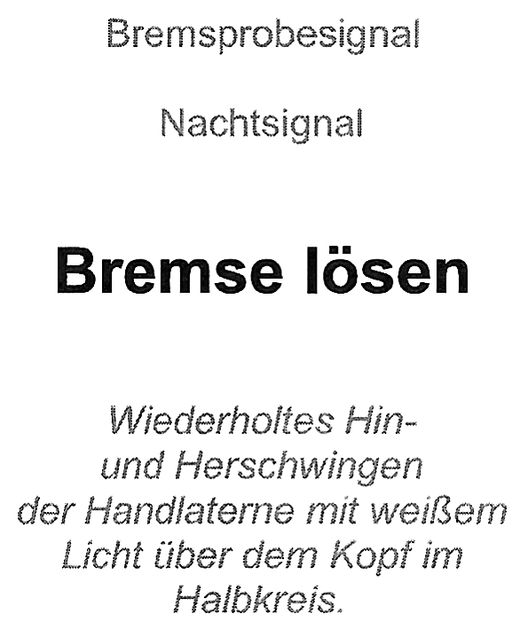
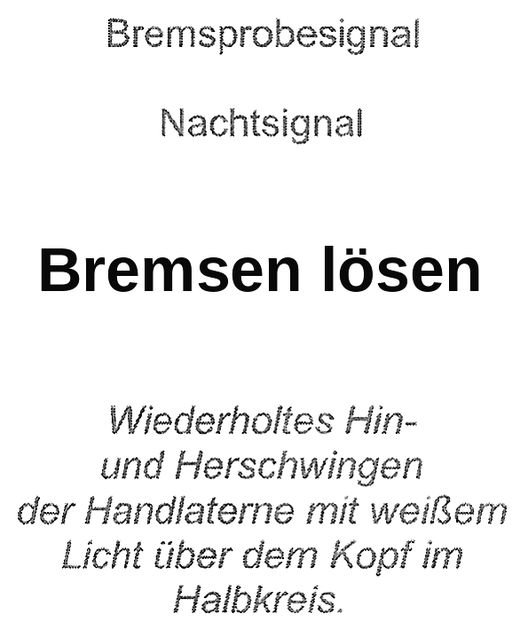
1

Changed region(s): [[0.0615, 0.3921, 0.9231, 0.4825]]

diff --git a/karten.js b/karten.js
@@ -1,5 +1,5 @@
 // Automatisch erzeugt aus der Signal-Kartenvorlage.
 // id -> Bilder img/s###.jpg (Symbol) und img/n###.jpg (Original-Rueckseite)
 // g = Signalgruppe, t = Bezeichnung, k = Signalart laut Rueckseite, a = Form-/Licht-/Tag-/Nachtsignal
-const KARTEN = [{"id": 1, "g": "Haupt- und Vorsignale", "t": "Vorsicht", "k": "Vorsignal", "a": "Lichtsignal"}, {"id": 2, "g": "Haupt- und Vorsignale", "t": "Vorsicht", "k": "Vorsignal", "a": "Formsignal"}, {"id": 3, "g": "Haupt- und Vorsignale", "t": "Hauptsignal Frei", "k": "Vorsignal", "a": "Formsignal"}, {"id": 4, "g": "Haupt- und Vorsignale", "t": "Frei mit 40 km/h", "k": "Hauptsignal", "a": "Formsignal"}, {"id": 5, "g": "Haupt- und Vorsignale", "t": "Frei", "k": "Hauptsignal", "a": "Formsignal"}, {"id": 6, "g": "Haupt- und Vorsignale", "t": "HALT", "k": "Hauptsignal", "a": "Formsignal"}, {"id": 7, "g": "Haupt- und Vorsignale", "t": "Frei mit 40 km/h", "k": "Hauptsignal", "a": "Lichtsignal"}, {"id": 8, "g": "Haupt- und Vorsignale", "t": "Frei mit 60 km/h", "k": "Hauptsignal", "a": "Lichtsignal"}, {"id": 9, "g": "Haupt- und Vorsignale", "t": "Frei", "k": "Hauptsignal", "a": "Lichtsignal"}, {"id": 10, "g": "Haupt- und Vorsignale", "t": "HALT", "k": "Hauptsignal", "a": "Lichtsignal"}, {"id": 11, "g": "Schutzsignale", "t": "Verschubverbot aufgehoben", "k": "Verschubsignal (Schutzsignal)", "a": "Lichtsignal"}, {"id": 12, "g": "Schutzsignale", "t": "Fahrverbot aufgehoben", "k": "Schutzsignal (NEU)", "a": "Lichtsignal"}, {"id": 13, "g": "Schutzsignale", "t": "Fahrverbot", "k": "Schutzsignal (NEU)", "a": "Lichtsignal"}, {"id": 14, "g": "Schutzsignale", "t": "Fahrverbot aufgehoben", "k": "Schutzsignal (ALT)", "a": "Lichtsignal"}, {"id": 15, "g": "Schutzsignale", "t": "Fahrverbot", "k": "Schutzsignal (ALT)", "a": "Lichtsignal"}, {"id": 16, "g": "Zusatzsignale", "t": "Ersatzsignal", "k": "Zusatzsignale für HS, VS & SCH", "a": "Lichtsignal"}, {"id": 17, "g": "Zusatzsignale", "t": "Vorsichtssignal", "k": "Zusatzsignale für HS, VS & SCH", "a": "Lichtsignal"}, {"id": 18, "g": "Haupt- und Vorsignale", "t": "Hauptsignal Frei mit 40 km/h", "k": "Vorsignal", "a": "Lichtsignal"}, {"id": 19, "g": "Haupt- und Vorsignale", "t": "Hauptsignal Frei mit 60 km/h", "k": "Vorsignal", "a": "Lichtsignal"}, {"id": 20, "g": "Haupt- und Vorsignale", "t": "Hauptsignal Frei", "k": "Vorsignal", "a": "Lichtsignal"}, {"id": 21, "g": "Zusatzsignale", "t": "Hauptsignal zeigt Halt", "k": "Zusatzsignale für HS, VS & SCH", "a": "Lichtsignal"}, {"id": 22, "g": "Zusatzsignale", "t": "Geschwindigkeitsanzeiger", "k": "Zusatzsignale für HS, VS & SCH", "a": "Formsignal"}, {"id": 23, "g": "Zusatzsignale", "t": "Geschwindigkeitsvoranzeiger", "k": "Zusatzsignale für HS, VS & SCH", "a": "Formsignal"}, {"id": 24, "g": "Zusatzsignale", "t": "Geschwindigkeitsanzeiger", "k": "Zusatzsignale für HS, VS & SCH", "a": "Lichtsignal"}, {"id": 25, "g": "Zusatzsignale", "t": "Geschwindigkeitsvoranzeiger", "k": "Zusatzsignale für HS, VS & SCH", "a": "Lichtsignal"}, {"id": 26, "g": "Zusatzsignale", "t": "Hauptsignal zeigt Frei mit Geschwindigkeitsbeschränkung", "k": "Zusatzsignale für HS, VS & SCH", "a": "Lichtsignal"}, {"id": 27, "g": "Zusatzsignale", "t": "Hauptsignal zeigt Frei", "k": "Zusatzsignale für HS, VS & SCH", "a": "Lichtsignal"}, {"id": 28, "g": "Zusatzsignale", "t": "Hauptsignal zeigt Halt", "k": "Zusatzsignale für HS, VS & SCH", "a": "Lichtsignal"}, {"id": 29, "g": "Zusatzsignale", "t": "Hauptsignal zeigt Frei mit Geschwindigkeitsbeschränkung", "k": "Zusatzsignale für HS, VS & SCH", "a": "Lichtsignal"}, {"id": 30, "g": "Zusatzsignale", "t": "Hauptsignal zeigt Frei", "k": "Zusatzsignale für HS, VS & SCH", "a": "Lichtsignal"}, {"id": 31, "g": "Zusatzsignale", "t": "Abstandstafel", "k": "Zusatzsignale für HS, VS & SCH", "a": "Formsignal"}, {"id": 32, "g": "Zusatzsignale", "t": "Kennzeichnung", "k": "Zusatzsignale für HS, VS & SCH", "a": "Formsignal"}, {"id": 33, "g": "Zusatzsignale", "t": "Signal außer Betrieb", "k": "Zusatzsignale für HS, VS & SCH", "a": "Formsignal"}, {"id": 34, "g": "Sperrsignale", "t": "Weiterfahrt erlaubt", "k": "Sperrsignal", "a": "Formsignal"}, {"id": 35, "g": "Sperrsignale", "t": "Weiterfahrt verboten", "k": "Sperrsignal", "a": "Formsignal"}, {"id": 36, "g": "Langsamfahrsignale", "t": "Endsignal", "k": "Langsamfahrsignal", "a": "Formsignal"}, {"id": 37, "g": "Langsamfahrsignale", "t": "Anfangssignal", "k": "Langsamfahrsignal", "a": "Formsignal"}, {"id": 38, "g": "Langsamfahrsignale", "t": "Ankündigungssignal", "k": "Langsamfahrsignal", "a": "Formsignal"}, {"id": 39, "g": "Zusatzsignale", "t": "Vorbeifahrt erlaubt", "k": "Zusatzsignale für HS, VS & SCH", "a": "Tagsignal"}, {"id": 40, "g": "Zusatzsignale", "t": "Vorbeifahrt erlaubt", "k": "Zusatzsignale für HS, VS & SCH", "a": "Nachtsignal"}, {"id": 41, "g": "Oberleitungssignale", "t": "Stromabnehmer Hoch", "k": "Oberleitungssignal", "a": "Formsignal"}, {"id": 42, "g": "Oberleitungssignale", "t": "Stromabnehmer Tief", "k": "Oberleitungssignal", "a": "Formsignal"}, {"id": 43, "g": "Oberleitungssignale", "t": "Ankündigung Stromabnehmer Tief", "k": "Oberleitungssignal", "a": "Formsignal"}, {"id": 44, "g": "Oberleitungssignale", "t": "Zusatzpfeil", "k": "Oberleitungssignal", "a": "Formsignal"}, {"id": 45, "g": "Oberleitungssignale", "t": "Halt für Fahrzeuge mit angehobenem Stromabnehmer", "k": "Oberleitungssignal", "a": "Formsignal"}, {"id": 46, "g": "Oberleitungssignale", "t": "Hauptschalter ein", "k": "Oberleitungssignal", "a": "Formsignal"}, {"id": 47, "g": "Oberleitungssignale", "t": "Hauptschalter aus", "k": "Oberleitungssignal", "a": "Formsignal"}, {"id": 48, "g": "Oberleitungssignale", "t": "Ankündigung Hauptschalter aus", "k": "Oberleitungssignal", "a": "Formsignal"}, {"id": 49, "g": "Weichensignale", "t": "Von Rechts", "k": "Weichensignal", "a": "Formsignal"}, {"id": 50, "g": "Weichensignale", "t": "Von Links", "k": "Weichensignal", "a": "Formsignal"}, {"id": 51, "g": "Weichensignale", "t": "Nach Rechts", "k": "Weichensignal", "a": "Formsignal"}, {"id": 52, "g": "Weichensignale", "t": "Nach Links", "k": "Weichensignal", "a": "Formsignal"}, {"id": 53, "g": "Weichensignale", "t": "Von Rechts nach Links", "k": "Weichensignal", "a": "Formsignal"}, {"id": 54, "g": "Weichensignale", "t": "Von Links nach Rechts", "k": "Weichensignal", "a": "Formsignal"}, {"id": 55, "g": "Weichensignale", "t": "Von Rechts nach Rechts", "k": "Weichensignal", "a": "Formsignal"}, {"id": 56, "g": "Weichensignale", "t": "Von Links nach Links", "k": "Weichensignal", "a": "Formsignal"}, {"id": 57, "g": "Übergangssignale", "t": "Aus dem rechten Zweig", "k": "Übergangssignal", "a": "Formsignal"}, {"id": 58, "g": "Übergangssignale", "t": "Aus dem linken Zweig", "k": "Übergangssignal", "a": "Formsignal"}, {"id": 59, "g": "Übergangssignale", "t": "Aus der Ablenkung", "k": "Übergangssignal", "a": "Formsignal"}, {"id": 60, "g": "Übergangssignale", "t": "In die Ablenkung", "k": "Übergangssignal", "a": "Formsignal"}, {"id": 61, "g": "Übergangssignale", "t": "Gerade", "k": "Übergangssignal", "a": "Formsignal"}, {"id": 62, "g": "Übergangssignale", "t": "Gerade von links nach rechts", "k": "Übergangssignal", "a": "Formsignal"}, {"id": 63, "g": "Übergangssignale", "t": "Gerade von rechts nach links", "k": "Übergangssignal", "a": "Formsignal"}, {"id": 64, "g": "Übergangssignale", "t": "Ablenkung von Rechts nach Rechts", "k": "Übergangssignal", "a": "Formsignal"}, {"id": 65, "g": "Übergangssignale", "t": "Ablenkung von Links nach Links", "k": "Übergangssignal", "a": "Formsignal"}, {"id": 66, "g": "Verschubsignale", "t": "Verschubverbot", "k": "Verschubsignal", "a": "Lichtsignal"}, {"id": 67, "g": "Verschubsignale", "t": "Verschubverbot aufgehoben", "k": "Verschubsignal", "a": "Lichtsignal"}, {"id": 68, "g": "Verschubsignale", "t": "Verschubverbot aufgehoben", "k": "Verschubsignal (Schutzsignal)", "a": "Lichtsignal"}, {"id": 69, "g": "Verschubsignale", "t": "Verschubverbot aufgehoben", "k": "Verschubsignal (Hauptsignal)", "a": "Lichtsignal"}, {"id": 70, "g": "Weichenüberwachungssignale", "t": "Weichenblockade", "k": "Weichenüberwachungssignal", "a": "Formsignal"}, {"id": 71, "g": "Weichenüberwachungssignale", "t": "Rückfallweichen befahren NICHT erlaubt", "k": "Weichenüberwachungssignal", "a": "Lichtsignal"}, {"id": 72, "g": "Weichenüberwachungssignale", "t": "Rückfallweichen befahren NICHT erlaubt", "k": "Weichenüberwachungssignal", "a": "Lichtsignal"}, {"id": 73, "g": "Weichenüberwachungssignale", "t": "Rückfallweichen befahren erlaubt", "k": "Weichenüberwachungssignal", "a": "Lichtsignal"}, {"id": 74, "g": "Weichenüberwachungssignale", "t": "Rückfallweichen befahren erlaubt", "k": "Weichenüberwachungssignal", "a": "Lichtsignal"}, {"id": 75, "g": "Weichenüberwachungssignale", "t": "Weiche gesichert", "k": "Weichenüberwachungssignal", "a": "Formsignal"}, {"id": 76, "g": "Hand-Verschubsignale", "t": "Abstoßen", "k": "Hand-Verschubsignal", "a": "Tagsignal"}, {"id": 77, "g": "Hand-Verschubsignale", "t": "Wegfahren", "k": "Hand-Verschubsignal", "a": "Nachtsignal"}, {"id": 78, "g": "Hand-Verschubsignale", "t": "Verschubhalt", "k": "Hand-Verschubsignal", "a": "Nachtsignal"}, {"id": 79, "g": "Hand-Verschubsignale", "t": "Langsamer", "k": "Hand-Verschubsignal", "a": "Nachtsignal"}, {"id": 80, "g": "Hand-Verschubsignale", "t": "Herkommen", "k": "Hand-Verschubsignal", "a": "Nachtsignal"}, {"id": 81, "g": "Hand-Verschubsignale", "t": "Aufdrücken", "k": "Hand-Verschubsignal", "a": "Nachtsignal"}, {"id": 82, "g": "Hand-Verschubsignale", "t": "Abstoßen", "k": "Hand-Verschubsignal", "a": "Nachtsignal"}, {"id": 83, "g": "Verschubsignale", "t": "Wartesignal", "k": "Verschubsignal", "a": "Formsignal"}, {"id": 84, "g": "Verschubsignale", "t": "Verschubsignalzusatz", "k": "Verschubsignal", "a": "Formsignal"}, {"id": 85, "g": "Verschubsignale", "t": "Verschubhalttafel", "k": "Verschubsignal", "a": "Formsignal"}, {"id": 86, "g": "Bremsprobesignale", "t": "Bremse lösen", "k": "Bremsprobesignal", "a": "Tagsignal"}, {"id": 87, "g": "Bremsprobesignale", "t": "Bremse anlegen", "k": "Bremsprobesignal", "a": "Tagsignal"}, {"id": 88, "g": "Bremsprobesignale", "t": "Bremsprobe beendet", "k": "Bremsprobesignal", "a": "Nachtsignal"}, {"id": 89, "g": "Bremsprobesignale", "t": "Bremse lösen", "k": "Bremsprobesignal", "a": "Nachtsignal"}, {"id": 90, "g": "Bremsprobesignale", "t": "Bremse anlegen", "k": "Bremsprobesignal", "a": "Nachtsignal"}, {"id": 91, "g": "Hand-Verschubsignale", "t": "Wegfahren", "k": "Hand-Verschubsignal", "a": "Tagsignal"}, {"id": 92, "g": "Hand-Verschubsignale", "t": "Verschubhalt", "k": "Hand-Verschubsignal", "a": "Tagsignal"}, {"id": 93, "g": "Hand-Verschubsignale", "t": "Aufdrücken", "k": "Hand-Verschubsignal", "a": "Tagsignal"}, {"id": 94, "g": "Hand-Verschubsignale", "t": "Langsamer", "k": "Hand-Verschubsignal", "a": "Tagsignal"}, {"id": 95, "g": "Hand-Verschubsignale", "t": "Herkommen", "k": "Hand-Verschubsignal", "a": "Tagsignal"}, {"id": 96, "g": "Abfahren von Zügen", "t": "Schneller fahren", "k": "Abfahren von Zügen", "a": "Formsignal"}, {"id": 97, "g": "Abfahren von Zügen", "t": "Fertig", "k": "Abfahren von Zügen", "a": "Tagsignal"}, {"id": 98, "g": "Abfahren von Zügen", "t": "Abfahrbereit", "k": "Abfahren von Zügen", "a": "Tagsignal"}, {"id": 99, "g": "Abfahren von Zügen", "t": "Fertig", "k": "Abfahren von Zügen", "a": "Nachtsignal"}, {"id": 100, "g": "Abfahren von Zügen", "t": "Abfahrbereit", "k": "Abfahren von Zügen", "a": "Nachtsignal"}, {"id": 101, "g": "Abfahren von Zügen", "t": "Abfahren erlaubt", "k": "Abfahren von Zügen", "a": "Lichtsignal"}, {"id": 102, "g": "Abfahren von Zügen", "t": "Zustimmung vermitteln", "k": "Abfahren von Zügen", "a": "Formsignal"}, {"id": 103, "g": "Abfahren von Zügen", "t": "Zustimmung entfällt", "k": "Abfahren von Zügen", "a": "Formsignal"}, {"id": 104, "g": "Abfahren von Zügen", "t": "Zustimmung", "k": "Abfahren von Zügen", "a": "Lichtsignal"}, {"id": 105, "g": "Bremsprobesignale", "t": "Bremsprobe beendet", "k": "Bremsprobesignal", "a": "Tagsignal"}, {"id": 106, "g": "Zug- und Fahrzeugsignale", "t": "Schlusssignal", "k": "Zugsignal", "a": "Formsignal"}, {"id": 107, "g": "Zug- und Fahrzeugsignale", "t": "Schlusssignal", "k": "Zugsignal", "a": "Formsignal"}, {"id": 108, "g": "Zug- und Fahrzeugsignale", "t": "Schlusssignal", "k": "Zugsignal", "a": "Lichtsignal"}, {"id": 109, "g": "Zug- und Fahrzeugsignale", "t": "Schlusssignal", "k": "Zugsignal", "a": "Lichtsignal"}, {"id": 110, "g": "Zug- und Fahrzeugsignale", "t": "Spitzensignal", "k": "Zugsignal", "a": "Lichtsignal"}, {"id": 111, "g": "Zug- und Fahrzeugsignale", "t": "Wagen besetzt", "k": "Signale an Fahrzeugen", "a": "Formsignal"}, {"id": 112, "g": "Zug- und Fahrzeugsignale", "t": "Fahrzeug darf nicht bewegt werden", "k": "Signale an Fahrzeugen", "a": "Formsignal"}, {"id": 113, "g": "Zug- und Fahrzeugsignale", "t": "An die Vorheizanlage angeschlossen", "k": "Signale an Fahrzeugen", "a": "Formsignal"}, {"id": 114, "g": "Abfahren von Zügen", "t": "Langsamer fahren", "k": "Abfahren von Zügen", "a": "Formsignal"}, {"id": 115, "g": "Sonstige Signale", "t": "Signalhinweis", "k": "Sonstiges Signal", "a": "Formsignal"}, {"id": 116, "g": "Sonstige Signale", "t": "Kreuztafel", "k": "Sonstiges Signal", "a": "Formsignal"}, {"id": 117, "g": "Sonstige Signale", "t": "Kreuztafel", "k": "Sonstiges Signal", "a": "Formsignal"}, {"id": 118, "g": "Sonstige Signale", "t": "Trapeztafel", "k": "Sonstiges Signal", "a": "Formsignal"}, {"id": 119, "g": "Sonstige Signale", "t": "Kommen", "k": "Sonstiges Signal", "a": "Lichtsignal"}, {"id": 120, "g": "Sonstige Signale", "t": "Haltestellentafel", "k": "Sonstiges Signal", "a": "Formsignal"}, {"id": 121, "g": "Sonstige Signale", "t": "Markierte Grenzmarke", "k": "Sonstiges Signal", "a": "Formsignal"}, {"id": 122, "g": "Sonstige Signale", "t": "Grenzmarke", "k": "Sonstiges Signal", "a": "Formsignal"}, {"id": 123, "g": "Sonstige Signale", "t": "Haltepunkt", "k": "Sonstiges Signal", "a": "Formsignal"}, {"id": 124, "g": "Sonstige Signale", "t": "Gefahrsignal", "k": "Gefahrsignal", "a": "Tagsignal"}, {"id": 125, "g": "Sonstige Signale", "t": "Geschwindigkeitstafel", "k": "Sonstiges Signal", "a": "Formsignal"}, {"id": 126, "g": "Sonstige Signale", "t": "Dienstruhe", "k": "Sonstiges Signal", "a": "Formsignal"}, {"id": 127, "g": "Sonstige Signale", "t": "Fahrwegende", "k": "Sonstiges Signal", "a": "Formsignal"}, {"id": 128, "g": "Sonstige Signale", "t": "Haltscheibe", "k": "Sonstiges Signal", "a": "Formsignal"}, {"id": 129, "g": "Sonstige Signale", "t": "NBÜ-Bereich", "k": "Sonstiges Signal", "a": "Formsignal"}, {"id": 130, "g": "Sonstige Signale", "t": "Mittelräumer heben", "k": "Sonstiges Signal", "a": "Formsignal"}, {"id": 131, "g": "Sonstige Signale", "t": "Räumarbeit aufnehmen", "k": "Sonstiges Signal", "a": "Formsignal"}, {"id": 132, "g": "Sonstige Signale", "t": "Räumarbeit einstellen", "k": "Sonstiges Signal", "a": "Formsignal"}, {"id": 133, "g": "Sonstige Signale", "t": "Dienstruhe", "k": "Sonstiges Signal", "a": "Formsignal"}, {"id": 134, "g": "Sonstige Signale", "t": "Richtungspfeil", "k": "Sonstiges Signal", "a": "Formsignal"}, {"id": 135, "g": "Pfeiftafeln und Eisenbahnkreuzungen", "t": "Schaltstelle", "k": "Pfeiftafel, Schaltstellen", "a": "Formsignal"}, {"id": 136, "g": "Pfeiftafeln und Eisenbahnkreuzungen", "t": "Pfeiftafel", "k": "Pfeiftafel, Schaltstellen", "a": "Formsignal"}, {"id": 137, "g": "Pfeiftafeln und Eisenbahnkreuzungen", "t": "Pfeifende", "k": "Pfeiftafel, Schaltstellen", "a": "Formsignal"}, {"id": 138, "g": "Pfeiftafeln und Eisenbahnkreuzungen", "t": "Gruppenpfeiftafel", "k": "Pfeiftafel, Schaltstellen", "a": "Formsignal"}, {"id": 139, "g": "Sonstige Signale", "t": "Ankündigungstafel", "k": "Sonstiges Signal", "a": "Formsignal"}, {"id": 140, "g": "Sonstige Signale", "t": "Erlaubnissignal", "k": "Erlaubnissignal", "a": "Lichtsignal"}, {"id": 141, "g": "Pfeiftafeln und Eisenbahnkreuzungen", "t": "EK-Sicht Gruppenpfeiftafel", "k": "EK-Sicht Pfeiftafeln", "a": "Formsignal"}, {"id": 142, "g": "Pfeiftafeln und Eisenbahnkreuzungen", "t": "EK-Sicht Pfeiftafel", "k": "EK-Sicht Pfeiftafeln", "a": "Formsignal"}, {"id": 143, "g": "Pfeiftafeln und Eisenbahnkreuzungen", "t": "EK-Sicht", "k": "EK-Sicht", "a": "Formsignal"}, {"id": 144, "g": "Pfeiftafeln und Eisenbahnkreuzungen", "t": "Ankündigung EK-Sicht", "k": "EK-Sicht", "a": "Formsignal"}, {"id": 145, "g": "Pfeiftafeln und Eisenbahnkreuzungen", "t": "EK Gruppe Ende", "k": "EK-Überwachungssignal", "a": "Formsignal"}, {"id": 146, "g": "Pfeiftafeln und Eisenbahnkreuzungen", "t": "EK Gruppe Anfang", "k": "EK-Überwachungssignal", "a": "Formsignal"}, {"id": 147, "g": "Zusatzsignale", "t": "Gelbes Trapez", "k": "Zusatzsignale für HS, VS & SCH", "a": "Formsignal"}, {"id": 148, "g": "ETCS-Signale", "t": "ETCS Location Marker", "k": "ETCS Signale", "a": "Formsignal"}, {"id": 149, "g": "ETCS-Signale", "t": "ETCS Stop Marker", "k": "ETCS Signale", "a": "Formsignal"}, {"id": 150, "g": "Haupt- und Vorsignale", "t": "Vorsicht", "k": "Vorsignal", "a": "Lichtsignal"}, {"id": 151, "g": "Pfeiftafeln und Eisenbahnkreuzungen", "t": "Rautentafel", "k": "EK-Überwachungssignal", "a": "Formsignal"}, {"id": 152, "g": "Pfeiftafeln und Eisenbahnkreuzungen", "t": "EK befahren NICHT erlaubt", "k": "EK-Überwachungssignal", "a": "Lichtsignal"}, {"id": 153, "g": "Pfeiftafeln und Eisenbahnkreuzungen", "t": "EK befahren erlaubt", "k": "EK-Überwachungssignal", "a": "Lichtsignal"}];
+const KARTEN = [{"id": 1, "g": "Haupt- und Vorsignale", "t": "Vorsicht", "k": "Vorsignal", "a": "Lichtsignal"}, {"id": 2, "g": "Haupt- und Vorsignale", "t": "Vorsicht", "k": "Vorsignal", "a": "Formsignal"}, {"id": 3, "g": "Haupt- und Vorsignale", "t": "Hauptsignal Frei", "k": "Vorsignal", "a": "Formsignal"}, {"id": 4, "g": "Haupt- und Vorsignale", "t": "Frei mit 40 km/h", "k": "Hauptsignal", "a": "Formsignal"}, {"id": 5, "g": "Haupt- und Vorsignale", "t": "Frei", "k": "Hauptsignal", "a": "Formsignal"}, {"id": 6, "g": "Haupt- und Vorsignale", "t": "HALT", "k": "Hauptsignal", "a": "Formsignal"}, {"id": 7, "g": "Haupt- und Vorsignale", "t": "Frei mit 40 km/h", "k": "Hauptsignal", "a": "Lichtsignal"}, {"id": 8, "g": "Haupt- und Vorsignale", "t": "Frei mit 60 km/h", "k": "Hauptsignal", "a": "Lichtsignal"}, {"id": 9, "g": "Haupt- und Vorsignale", "t": "Frei", "k": "Hauptsignal", "a": "Lichtsignal"}, {"id": 10, "g": "Haupt- und Vorsignale", "t": "HALT", "k": "Hauptsignal", "a": "Lichtsignal"}, {"id": 11, "g": "Schutzsignale", "t": "Verschubverbot aufgehoben", "k": "Verschubsignal (Schutzsignal)", "a": "Lichtsignal"}, {"id": 12, "g": "Schutzsignale", "t": "Fahrverbot aufgehoben", "k": "Schutzsignal (NEU)", "a": "Lichtsignal"}, {"id": 13, "g": "Schutzsignale", "t": "Fahrverbot", "k": "Schutzsignal (NEU)", "a": "Lichtsignal"}, {"id": 14, "g": "Schutzsignale", "t": "Fahrverbot aufgehoben", "k": "Schutzsignal (ALT)", "a": "Lichtsignal"}, {"id": 15, "g": "Schutzsignale", "t": "Fahrverbot", "k": "Schutzsignal (ALT)", "a": "Lichtsignal"}, {"id": 16, "g": "Zusatzsignale", "t": "Ersatzsignal", "k": "Zusatzsignale für HS, VS & SCH", "a": "Lichtsignal"}, {"id": 17, "g": "Zusatzsignale", "t": "Vorsichtssignal", "k": "Zusatzsignale für HS, VS & SCH", "a": "Lichtsignal"}, {"id": 18, "g": "Haupt- und Vorsignale", "t": "Hauptsignal Frei mit 40 km/h", "k": "Vorsignal", "a": "Lichtsignal"}, {"id": 19, "g": "Haupt- und Vorsignale", "t": "Hauptsignal Frei mit 60 km/h", "k": "Vorsignal", "a": "Lichtsignal"}, {"id": 20, "g": "Haupt- und Vorsignale", "t": "Hauptsignal Frei", "k": "Vorsignal", "a": "Lichtsignal"}, {"id": 21, "g": "Zusatzsignale", "t": "Signalnachahmer – Hauptsignal zeigt Halt", "k": "Signalnachahmer", "a": "Lichtsignal"}, {"id": 22, "g": "Zusatzsignale", "t": "Geschwindigkeitsanzeiger", "k": "Zusatzsignale für HS, VS & SCH", "a": "Formsignal"}, {"id": 23, "g": "Zusatzsignale", "t": "Geschwindigkeitsvoranzeiger", "k": "Zusatzsignale für HS, VS & SCH", "a": "Formsignal"}, {"id": 24, "g": "Zusatzsignale", "t": "Geschwindigkeitsanzeiger", "k": "Zusatzsignale für HS, VS & SCH", "a": "Lichtsignal"}, {"id": 25, "g": "Zusatzsignale", "t": "Geschwindigkeitsvoranzeiger", "k": "Zusatzsignale für HS, VS & SCH", "a": "Lichtsignal"}, {"id": 26, "g": "Zusatzsignale", "t": "Signalnachahmer – Hauptsignal zeigt Frei mit Geschwindigkeitsbeschränkung", "k": "Signalnachahmer", "a": "Lichtsignal"}, {"id": 27, "g": "Zusatzsignale", "t": "Signalnachahmer – Hauptsignal zeigt Frei", "k": "Signalnachahmer", "a": "Lichtsignal"}, {"id": 28, "g": "Zusatzsignale", "t": "Signalnachahmer – Hauptsignal zeigt Halt", "k": "Signalnachahmer mit PZB 1000 Hz", "a": "Lichtsignal"}, {"id": 29, "g": "Zusatzsignale", "t": "Signalnachahmer – Hauptsignal zeigt Frei mit Geschwindigkeitsbeschränkung", "k": "Signalnachahmer mit PZB 1000 Hz", "a": "Lichtsignal"}, {"id": 30, "g": "Zusatzsignale", "t": "Signalnachahmer – Hauptsignal zeigt Frei", "k": "Signalnachahmer mit PZB 1000 Hz", "a": "Lichtsignal"}, {"id": 31, "g": "Zusatzsignale", "t": "Abstandstafel", "k": "Zusatzsignale für HS, VS & SCH", "a": "Formsignal"}, {"id": 32, "g": "Zusatzsignale", "t": "Kennzeichnung", "k": "Zusatzsignale für HS, VS & SCH", "a": "Formsignal"}, {"id": 33, "g": "Zusatzsignale", "t": "Signal außer Betrieb", "k": "Zusatzsignale für HS, VS & SCH", "a": "Formsignal"}, {"id": 34, "g": "Sperrsignale", "t": "Weiterfahrt erlaubt", "k": "Sperrsignal", "a": "Formsignal"}, {"id": 35, "g": "Sperrsignale", "t": "Weiterfahrt verboten", "k": "Sperrsignal", "a": "Formsignal"}, {"id": 36, "g": "Langsamfahrsignale", "t": "Endsignal", "k": "Langsamfahrsignal", "a": "Formsignal"}, {"id": 37, "g": "Langsamfahrsignale", "t": "Anfangssignal", "k": "Langsamfahrsignal", "a": "Formsignal"}, {"id": 38, "g": "Langsamfahrsignale", "t": "Ankündigungssignal", "k": "Langsamfahrsignal", "a": "Formsignal"}, {"id": 39, "g": "Zusatzsignale", "t": "Vorbeifahrt erlaubt", "k": "Zusatzsignale für HS, VS & SCH", "a": "Tagsignal"}, {"id": 40, "g": "Zusatzsignale", "t": "Vorbeifahrt erlaubt", "k": "Zusatzsignale für HS, VS & SCH", "a": "Nachtsignal"}, {"id": 41, "g": "Oberleitungssignale", "t": "Stromabnehmer Hoch", "k": "Oberleitungssignal", "a": "Formsignal"}, {"id": 42, "g": "Oberleitungssignale", "t": "Stromabnehmer Tief", "k": "Oberleitungssignal", "a": "Formsignal"}, {"id": 43, "g": "Oberleitungssignale", "t": "Ankündigung Stromabnehmer Tief", "k": "Oberleitungssignal", "a": "Formsignal"}, {"id": 44, "g": "Oberleitungssignale", "t": "Zusatzpfeil", "k": "Oberleitungssignal", "a": "Formsignal"}, {"id": 45, "g": "Oberleitungssignale", "t": "Halt für Fahrzeuge mit angehobenem Stromabnehmer", "k": "Oberleitungssignal", "a": "Formsignal"}, {"id": 46, "g": "Oberleitungssignale", "t": "Hauptschalter ein", "k": "Oberleitungssignal", "a": "Formsignal"}, {"id": 47, "g": "Oberleitungssignale", "t": "Hauptschalter aus", "k": "Oberleitungssignal", "a": "Formsignal"}, {"id": 48, "g": "Oberleitungssignale", "t": "Ankündigung Hauptschalter aus", "k": "Oberleitungssignal", "a": "Formsignal"}, {"id": 49, "g": "Weichensignale", "t": "Von Rechts", "k": "Weichensignal", "a": "Formsignal"}, {"id": 50, "g": "Weichensignale", "t": "Von Links", "k": "Weichensignal", "a": "Formsignal"}, {"id": 51, "g": "Weichensignale", "t": "Nach Rechts", "k": "Weichensignal", "a": "Formsignal"}, {"id": 52, "g": "Weichensignale", "t": "Nach Links", "k": "Weichensignal", "a": "Formsignal"}, {"id": 53, "g": "Weichensignale", "t": "Von Rechts nach Links", "k": "Weichensignal", "a": "Formsignal"}, {"id": 54, "g": "Weichensignale", "t": "Von Links nach Rechts", "k": "Weichensignal", "a": "Formsignal"}, {"id": 55, "g": "Weichensignale", "t": "Von Rechts nach Rechts", "k": "Weichensignal", "a": "Formsignal"}, {"id": 56, "g": "Weichensignale", "t": "Von Links nach Links", "k": "Weichensignal", "a": "Formsignal"}, {"id": 57, "g": "Übergangssignale", "t": "Aus dem rechten Zweig", "k": "Übergangssignal", "a": "Formsignal"}, {"id": 58, "g": "Übergangssignale", "t": "Aus dem linken Zweig", "k": "Übergangssignal", "a": "Formsignal"}, {"id": 59, "g": "Übergangssignale", "t": "Aus der Ablenkung", "k": "Übergangssignal", "a": "Formsignal"}, {"id": 60, "g": "Übergangssignale", "t": "In die Ablenkung", "k": "Übergangssignal", "a": "Formsignal"}, {"id": 61, "g": "Übergangssignale", "t": "Gerade", "k": "Übergangssignal", "a": "Formsignal"}, {"id": 62, "g": "Übergangssignale", "t": "Gerade von links nach rechts", "k": "Übergangssignal", "a": "Formsignal"}, {"id": 63, "g": "Übergangssignale", "t": "Gerade von rechts nach links", "k": "Übergangssignal", "a": "Formsignal"}, {"id": 64, "g": "Übergangssignale", "t": "Ablenkung von Rechts nach Rechts", "k": "Übergangssignal", "a": "Formsignal"}, {"id": 65, "g": "Übergangssignale", "t": "Ablenkung von Links nach Links", "k": "Übergangssignal", "a": "Formsignal"}, {"id": 66, "g": "Verschubsignale", "t": "Verschubverbot", "k": "Verschubsignal", "a": "Lichtsignal"}, {"id": 67, "g": "Verschubsignale", "t": "Verschubverbot aufgehoben", "k": "Verschubsignal", "a": "Lichtsignal"}, {"id": 68, "g": "Verschubsignale", "t": "Verschubverbot aufgehoben", "k": "Verschubsignal (Schutzsignal)", "a": "Lichtsignal"}, {"id": 69, "g": "Verschubsignale", "t": "Verschubverbot aufgehoben", "k": "Verschubsignal (Hauptsignal)", "a": "Lichtsignal"}, {"id": 70, "g": "Weichenüberwachungssignale", "t": "Weichenblockade", "k": "Weichenüberwachungssignal", "a": "Formsignal"}, {"id": 71, "g": "Weichenüberwachungssignale", "t": "Rückfallweichen befahren NICHT erlaubt", "k": "Weichenüberwachungssignal", "a": "Lichtsignal"}, {"id": 72, "g": "Weichenüberwachungssignale", "t": "Rückfallweichen befahren NICHT erlaubt", "k": "Weichenüberwachungssignal", "a": "Lichtsignal"}, {"id": 73, "g": "Weichenüberwachungssignale", "t": "Rückfallweichen befahren erlaubt", "k": "Weichenüberwachungssignal", "a": "Lichtsignal"}, {"id": 74, "g": "Weichenüberwachungssignale", "t": "Rückfallweichen befahren erlaubt", "k": "Weichenüberwachungssignal", "a": "Lichtsignal"}, {"id": 75, "g": "Weichenüberwachungssignale", "t": "Weiche gesichert", "k": "Weichenüberwachungssignal", "a": "Formsignal"}, {"id": 76, "g": "Hand-Verschubsignale", "t": "Abstoßen", "k": "Hand-Verschubsignal", "a": "Tagsignal"}, {"id": 77, "g": "Hand-Verschubsignale", "t": "Wegfahren", "k": "Hand-Verschubsignal", "a": "Nachtsignal"}, {"id": 78, "g": "Hand-Verschubsignale", "t": "Verschubhalt", "k": "Hand-Verschubsignal", "a": "Nachtsignal"}, {"id": 79, "g": "Hand-Verschubsignale", "t": "Langsamer", "k": "Hand-Verschubsignal", "a": "Nachtsignal"}, {"id": 80, "g": "Hand-Verschubsignale", "t": "Herkommen", "k": "Hand-Verschubsignal", "a": "Nachtsignal"}, {"id": 81, "g": "Hand-Verschubsignale", "t": "Aufdrücken", "k": "Hand-Verschubsignal", "a": "Nachtsignal"}, {"id": 82, "g": "Hand-Verschubsignale", "t": "Abstoßen", "k": "Hand-Verschubsignal", "a": "Nachtsignal"}, {"id": 83, "g": "Verschubsignale", "t": "Wartesignal", "k": "Verschubsignal", "a": "Formsignal"}, {"id": 84, "g": "Verschubsignale", "t": "Verschubsignalzusatz", "k": "Verschubsignal", "a": "Formsignal"}, {"id": 85, "g": "Verschubsignale", "t": "Verschubhalttafel", "k": "Verschubsignal", "a": "Formsignal"}, {"id": 86, "g": "Bremsprobesignale", "t": "Bremsen lösen", "k": "Bremsprobesignal", "a": "Tagsignal"}, {"id": 87, "g": "Bremsprobesignale", "t": "Bremsen anlegen", "k": "Bremsprobesignal", "a": "Tagsignal"}, {"id": 88, "g": "Bremsprobesignale", "t": "Bremsprobe beendet", "k": "Bremsprobesignal", "a": "Nachtsignal"}, {"id": 89, "g": "Bremsprobesignale", "t": "Bremsen lösen", "k": "Bremsprobesignal", "a": "Nachtsignal"}, {"id": 90, "g": "Bremsprobesignale", "t": "Bremsen anlegen", "k": "Bremsprobesignal", "a": "Nachtsignal"}, {"id": 91, "g": "Hand-Verschubsignale", "t": "Wegfahren", "k": "Hand-Verschubsignal", "a": "Tagsignal"}, {"id": 92, "g": "Hand-Verschubsignale", "t": "Verschubhalt", "k": "Hand-Verschubsignal", "a": "Tagsignal"}, {"id": 93, "g": "Hand-Verschubsignale", "t": "Aufdrücken", "k": "Hand-Verschubsignal", "a": "Tagsignal"}, {"id": 94, "g": "Hand-Verschubsignale", "t": "Langsamer", "k": "Hand-Verschubsignal", "a": "Tagsignal"}, {"id": 95, "g": "Hand-Verschubsignale", "t": "Herkommen", "k": "Hand-Verschubsignal", "a": "Tagsignal"}, {"id": 96, "g": "Abfahren von Zügen", "t": "Schneller fahren", "k": "Abfahren von Zügen", "a": "Formsignal"}, {"id": 97, "g": "Abfahren von Zügen", "t": "Fertig", "k": "Abfahren von Zügen", "a": "Tagsignal"}, {"id": 98, "g": "Abfahren von Zügen", "t": "Abfahrbereit", "k": "Abfahren von Zügen", "a": "Tagsignal"}, {"id": 99, "g": "Abfahren von Zügen", "t": "Fertig", "k": "Abfahren von Zügen", "a": "Nachtsignal"}, {"id": 100, "g": "Abfahren von Zügen", "t": "Abfahrbereit", "k": "Abfahren von Zügen", "a": "Nachtsignal"}, {"id": 101, "g": "Abfahren von Zügen", "t": "Abfahren erlaubt", "k": "Abfahren von Zügen", "a": "Lichtsignal"}, {"id": 102, "g": "Abfahren von Zügen", "t": "Zustimmung vermitteln", "k": "Abfahren von Zügen", "a": "Formsignal"}, {"id": 103, "g": "Abfahren von Zügen", "t": "Zustimmung entfällt", "k": "Abfahren von Zügen", "a": "Formsignal"}, {"id": 104, "g": "Abfahren von Zügen", "t": "Zustimmung", "k": "Abfahren von Zügen", "a": "Lichtsignal"}, {"id": 105, "g": "Bremsprobesignale", "t": "Bremsprobe beendet", "k": "Bremsprobesignal", "a": "Tagsignal"}, {"id": 106, "g": "Zug- und Fahrzeugsignale", "t": "Schlusssignal", "k": "Zugsignal", "a": "Formsignal"}, {"id": 107, "g": "Zug- und Fahrzeugsignale", "t": "Schlusssignal", "k": "Zugsignal", "a": "Formsignal"}, {"id": 108, "g": "Zug- und Fahrzeugsignale", "t": "Schlusssignal", "k": "Zugsignal", "a": "Lichtsignal"}, {"id": 109, "g": "Zug- und Fahrzeugsignale", "t": "Schlusssignal", "k": "Zugsignal", "a": "Lichtsignal"}, {"id": 110, "g": "Zug- und Fahrzeugsignale", "t": "Spitzensignal", "k": "Zugsignal", "a": "Lichtsignal"}, {"id": 111, "g": "Zug- und Fahrzeugsignale", "t": "Wagen besetzt", "k": "Signale an Fahrzeugen", "a": "Formsignal"}, {"id": 112, "g": "Zug- und Fahrzeugsignale", "t": "Fahrzeug darf nicht bewegt werden", "k": "Signale an Fahrzeugen", "a": "Formsignal"}, {"id": 113, "g": "Zug- und Fahrzeugsignale", "t": "An die Vorheizanlage angeschlossen", "k": "Signale an Fahrzeugen", "a": "Formsignal"}, {"id": 114, "g": "Abfahren von Zügen", "t": "Langsamer fahren", "k": "Abfahren von Zügen", "a": "Formsignal"}, {"id": 115, "g": "Sonstige Signale", "t": "Signalhinweis", "k": "Sonstiges Signal", "a": "Formsignal"}, {"id": 116, "g": "Sonstige Signale", "t": "Kreuztafel mit blauer Fläche", "k": "Sonstiges Signal", "a": "Formsignal"}, {"id": 117, "g": "Sonstige Signale", "t": "Kreuztafel", "k": "Sonstiges Signal", "a": "Formsignal"}, {"id": 118, "g": "Sonstige Signale", "t": "Trapeztafel", "k": "Sonstiges Signal", "a": "Formsignal"}, {"id": 119, "g": "Sonstige Signale", "t": "Kommen", "k": "Sonstiges Signal", "a": "Lichtsignal"}, {"id": 120, "g": "Sonstige Signale", "t": "Haltestellentafel", "k": "Sonstiges Signal", "a": "Formsignal"}, {"id": 121, "g": "Sonstige Signale", "t": "Markierte Grenzmarke", "k": "Sonstiges Signal", "a": "Formsignal"}, {"id": 122, "g": "Sonstige Signale", "t": "Grenzmarke", "k": "Sonstiges Signal", "a": "Formsignal"}, {"id": 123, "g": "Sonstige Signale", "t": "Haltepunkt", "k": "Sonstiges Signal", "a": "Formsignal"}, {"id": 124, "g": "Sonstige Signale", "t": "Gefahrsignal", "k": "Gefahrsignal", "a": "Tagsignal"}, {"id": 125, "g": "Sonstige Signale", "t": "Geschwindigkeitstafel", "k": "Sonstiges Signal", "a": "Formsignal"}, {"id": 126, "g": "Sonstige Signale", "t": "Dienstruhe (am Signal)", "k": "Sonstiges Signal", "a": "Formsignal"}, {"id": 127, "g": "Sonstige Signale", "t": "Fahrwegende", "k": "Sonstiges Signal", "a": "Formsignal"}, {"id": 128, "g": "Sonstige Signale", "t": "Haltscheibe", "k": "Sonstiges Signal", "a": "Formsignal"}, {"id": 129, "g": "Sonstige Signale", "t": "NBÜ-Bereich", "k": "Sonstiges Signal", "a": "Formsignal"}, {"id": 130, "g": "Sonstige Signale", "t": "Mittelräumer heben", "k": "Sonstiges Signal", "a": "Formsignal"}, {"id": 131, "g": "Sonstige Signale", "t": "Räumarbeit aufnehmen", "k": "Sonstiges Signal", "a": "Formsignal"}, {"id": 132, "g": "Sonstige Signale", "t": "Räumarbeit einstellen", "k": "Sonstiges Signal", "a": "Formsignal"}, {"id": 133, "g": "Sonstige Signale", "t": "Dienstruhe (am Bahnsteig)", "k": "Sonstiges Signal", "a": "Formsignal"}, {"id": 134, "g": "Sonstige Signale", "t": "Richtungspfeil", "k": "Sonstiges Signal", "a": "Formsignal"}, {"id": 135, "g": "Pfeiftafeln und Eisenbahnkreuzungen", "t": "Schaltstellentafel", "k": "Pfeiftafel, Schaltstellen", "a": "Formsignal"}, {"id": 136, "g": "Pfeiftafeln und Eisenbahnkreuzungen", "t": "Pfeiftafel", "k": "Pfeiftafel, Schaltstellen", "a": "Formsignal"}, {"id": 137, "g": "Pfeiftafeln und Eisenbahnkreuzungen", "t": "Pfeifende", "k": "Pfeiftafel, Schaltstellen", "a": "Formsignal"}, {"id": 138, "g": "Pfeiftafeln und Eisenbahnkreuzungen", "t": "Gruppenpfeiftafel", "k": "Pfeiftafel, Schaltstellen", "a": "Formsignal"}, {"id": 139, "g": "Sonstige Signale", "t": "Ankündigungstafel", "k": "Sonstiges Signal", "a": "Formsignal"}, {"id": 140, "g": "Sonstige Signale", "t": "Erlaubnissignal", "k": "Erlaubnissignal", "a": "Lichtsignal"}, {"id": 141, "g": "Pfeiftafeln und Eisenbahnkreuzungen", "t": "EK-Sicht Gruppenpfeiftafel", "k": "EK-Sicht Pfeiftafeln", "a": "Formsignal"}, {"id": 142, "g": "Pfeiftafeln und Eisenbahnkreuzungen", "t": "EK-Sicht Pfeiftafel", "k": "EK-Sicht Pfeiftafeln", "a": "Formsignal"}, {"id": 143, "g": "Pfeiftafeln und Eisenbahnkreuzungen", "t": "EK-Sicht", "k": "EK-Sicht", "a": "Formsignal"}, {"id": 144, "g": "Pfeiftafeln und Eisenbahnkreuzungen", "t": "Ankündigung EK-Sicht", "k": "EK-Sicht", "a": "Formsignal"}, {"id": 145, "g": "Pfeiftafeln und Eisenbahnkreuzungen", "t": "EK Gruppe Ende", "k": "EK-Überwachungssignal", "a": "Formsignal"}, {"id": 146, "g": "Pfeiftafeln und Eisenbahnkreuzungen", "t": "EK Gruppe Anfang", "k": "EK-Überwachungssignal", "a": "Formsignal"}, {"id": 147, "g": "Zusatzsignale", "t": "Gelbes Trapez", "k": "Zusatzsignale für HS, VS & SCH", "a": "Formsignal"}, {"id": 148, "g": "ETCS-Signale", "t": "ETCS Location Marker", "k": "ETCS Signale", "a": "Formsignal"}, {"id": 149, "g": "ETCS-Signale", "t": "ETCS Stop Marker", "k": "ETCS Signale", "a": "Formsignal"}, {"id": 150, "g": "Haupt- und Vorsignale", "t": "Vorsicht (mit weißem Rand)", "k": "Vorsignal", "a": "Lichtsignal"}, {"id": 151, "g": "Pfeiftafeln und Eisenbahnkreuzungen", "t": "Rautentafel", "k": "EK-Überwachungssignal", "a": "Formsignal"}, {"id": 152, "g": "Pfeiftafeln und Eisenbahnkreuzungen", "t": "EK befahren NICHT erlaubt", "k": "EK-Überwachungssignal", "a": "Lichtsignal"}, {"id": 153, "g": "Pfeiftafeln und Eisenbahnkreuzungen", "t": "EK befahren erlaubt", "k": "EK-Überwachungssignal", "a": "Lichtsignal"}];
 const GRUPPEN = ["Haupt- und Vorsignale", "Schutzsignale", "Zusatzsignale", "Sperrsignale", "Langsamfahrsignale", "Oberleitungssignale", "Weichensignale", "Übergangssignale", "Verschubsignale", "Weichenüberwachungssignale", "Hand-Verschubsignale", "Bremsprobesignale", "Abfahren von Zügen", "Zug- und Fahrzeugsignale", "Sonstige Signale", "Pfeiftafeln und Eisenbahnkreuzungen", "ETCS-Signale"];

diff --git a/index.html b/index.html
@@ -1,10 +1,11 @@
 <!doctype html>
 <html lang="de">
 <head>
+<!-- ?v= an CSS/JS: neue Version erzwingen, sonst mischen Handys alte gecachte Skripte mit neuem HTML -->
 <meta charset="utf-8">
 <meta name="viewport" content="width=device-width, initial-scale=1, viewport-fit=cover">
 <title>Signal-Training</title>
-<link rel="stylesheet" href="style.css">
+<link rel="stylesheet" href="style.css?v=20261025c">
 </head>
 <body>
 <header class="kopf">
@@ -126,9 +127,9 @@
 <!-- Vollbildansicht einer Karte -->
 <div id="zoom" class="zoom" hidden><img alt=""></div>
 
-<script src="karten.js"></script>
-<script src="gemeinsam.js"></script>
-<script src="trainer.js"></script>
-<script src="app.js"></script>
+<script src="karten.js?v=20261025c"></script>
+<script src="gemeinsam.js?v=20261025c"></script>
+<script src="trainer.js?v=20261025c"></script>
+<script src="app.js?v=20261025c"></script>
 </body>
 </html>
